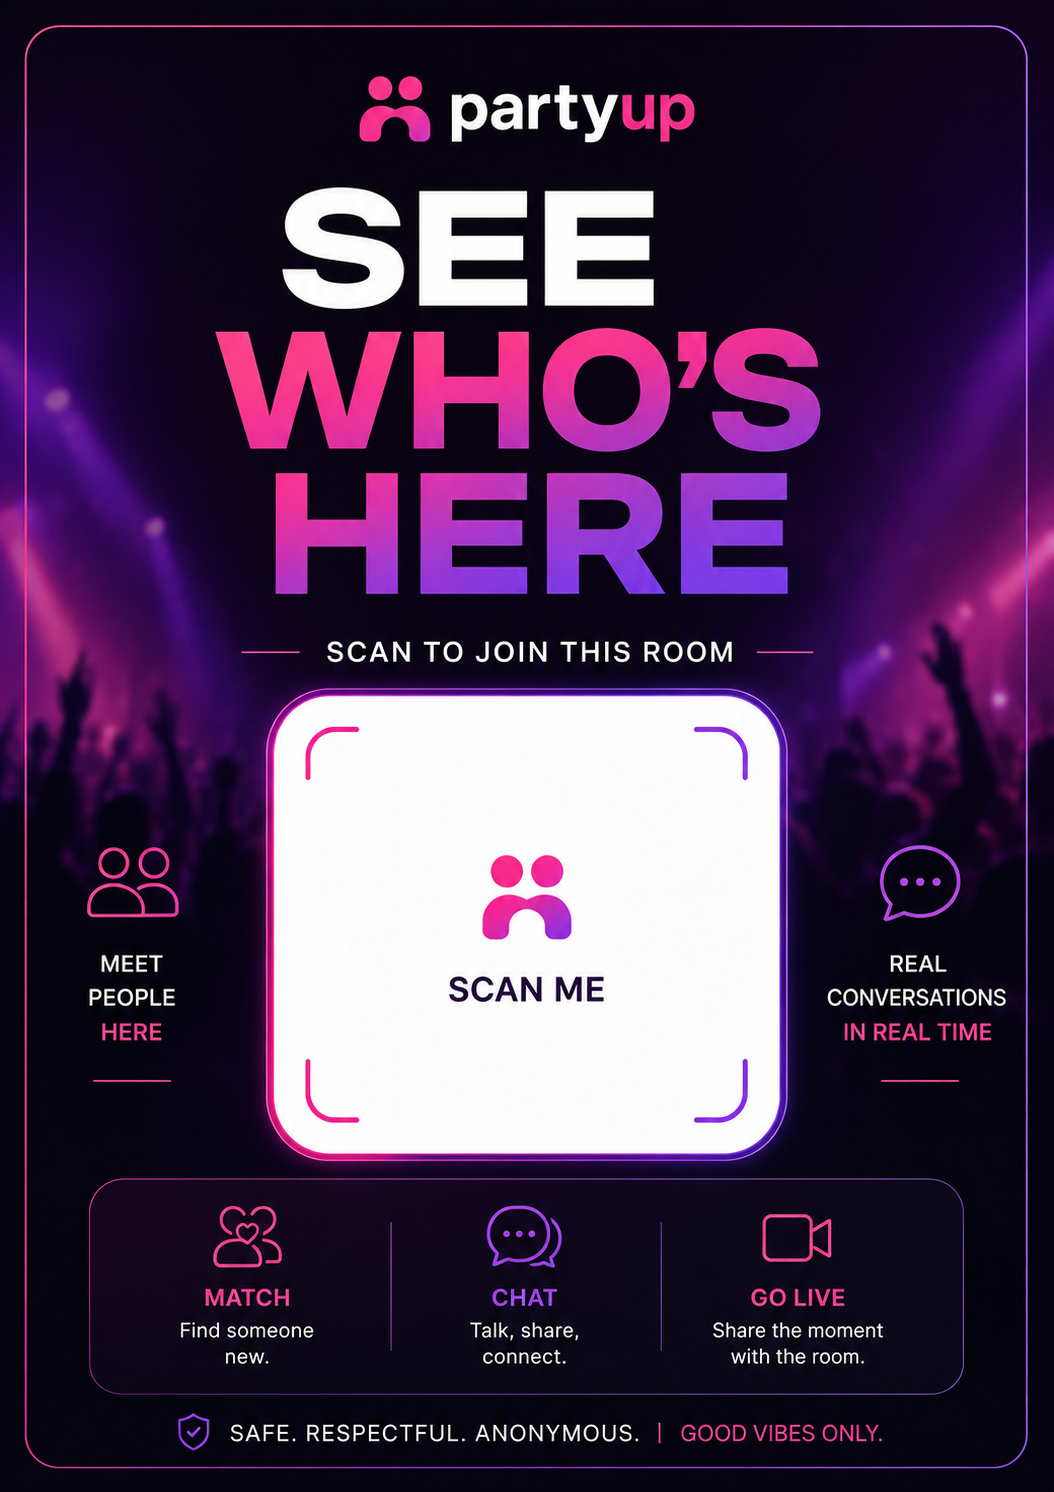
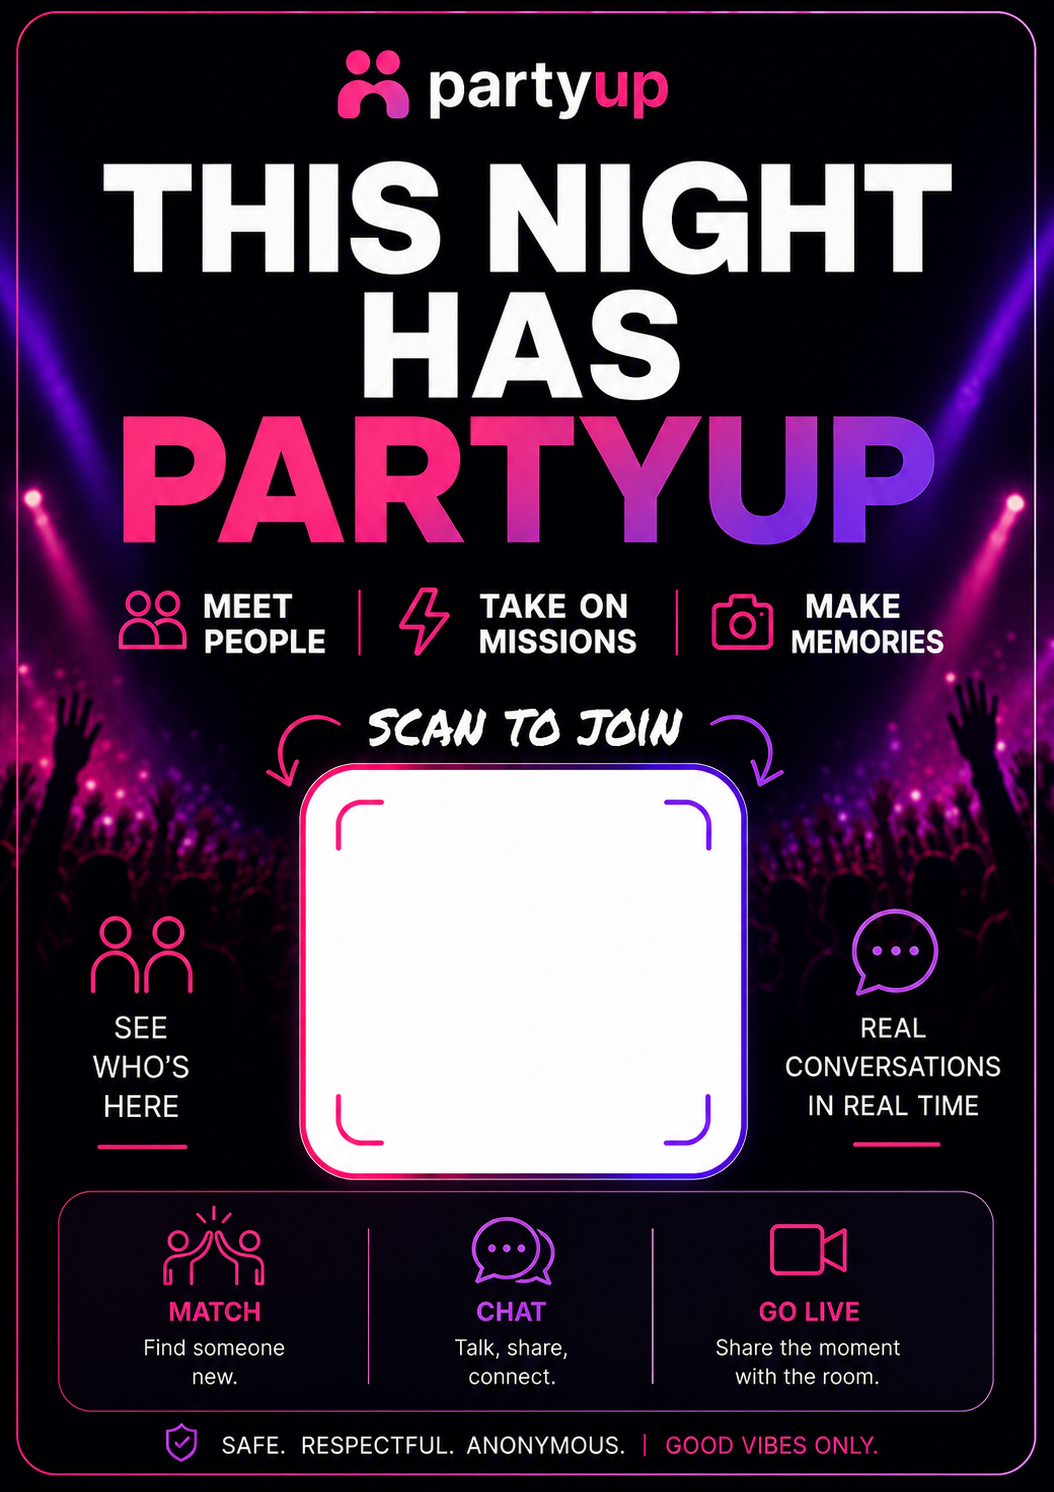
poser poster

diff --git a/app/room/[id]/manage/RoomEntryLinkPanel.tsx b/app/room/[id]/manage/RoomEntryLinkPanel.tsx
@@ -9,8 +9,8 @@ const posterQrCodeElementId = "partyup-room-entry-poster-qr";
 const posterTemplatePath = "/assets/partyup-room-poster.png";
 const posterWidth = 1054;
 const posterHeight = 1492;
-const qrBox = { x: 274, y: 697, width: 505, height: 456 };
-const posterQrSize = 318;
+const qrBox = { x: 300, y: 765, width: 454, height: 412 };
+const posterQrSize = 300;
 const posterQrX = qrBox.x + Math.round((qrBox.width - posterQrSize) / 2);
 const posterQrY = qrBox.y + Math.round((qrBox.height - posterQrSize) / 2);
 
